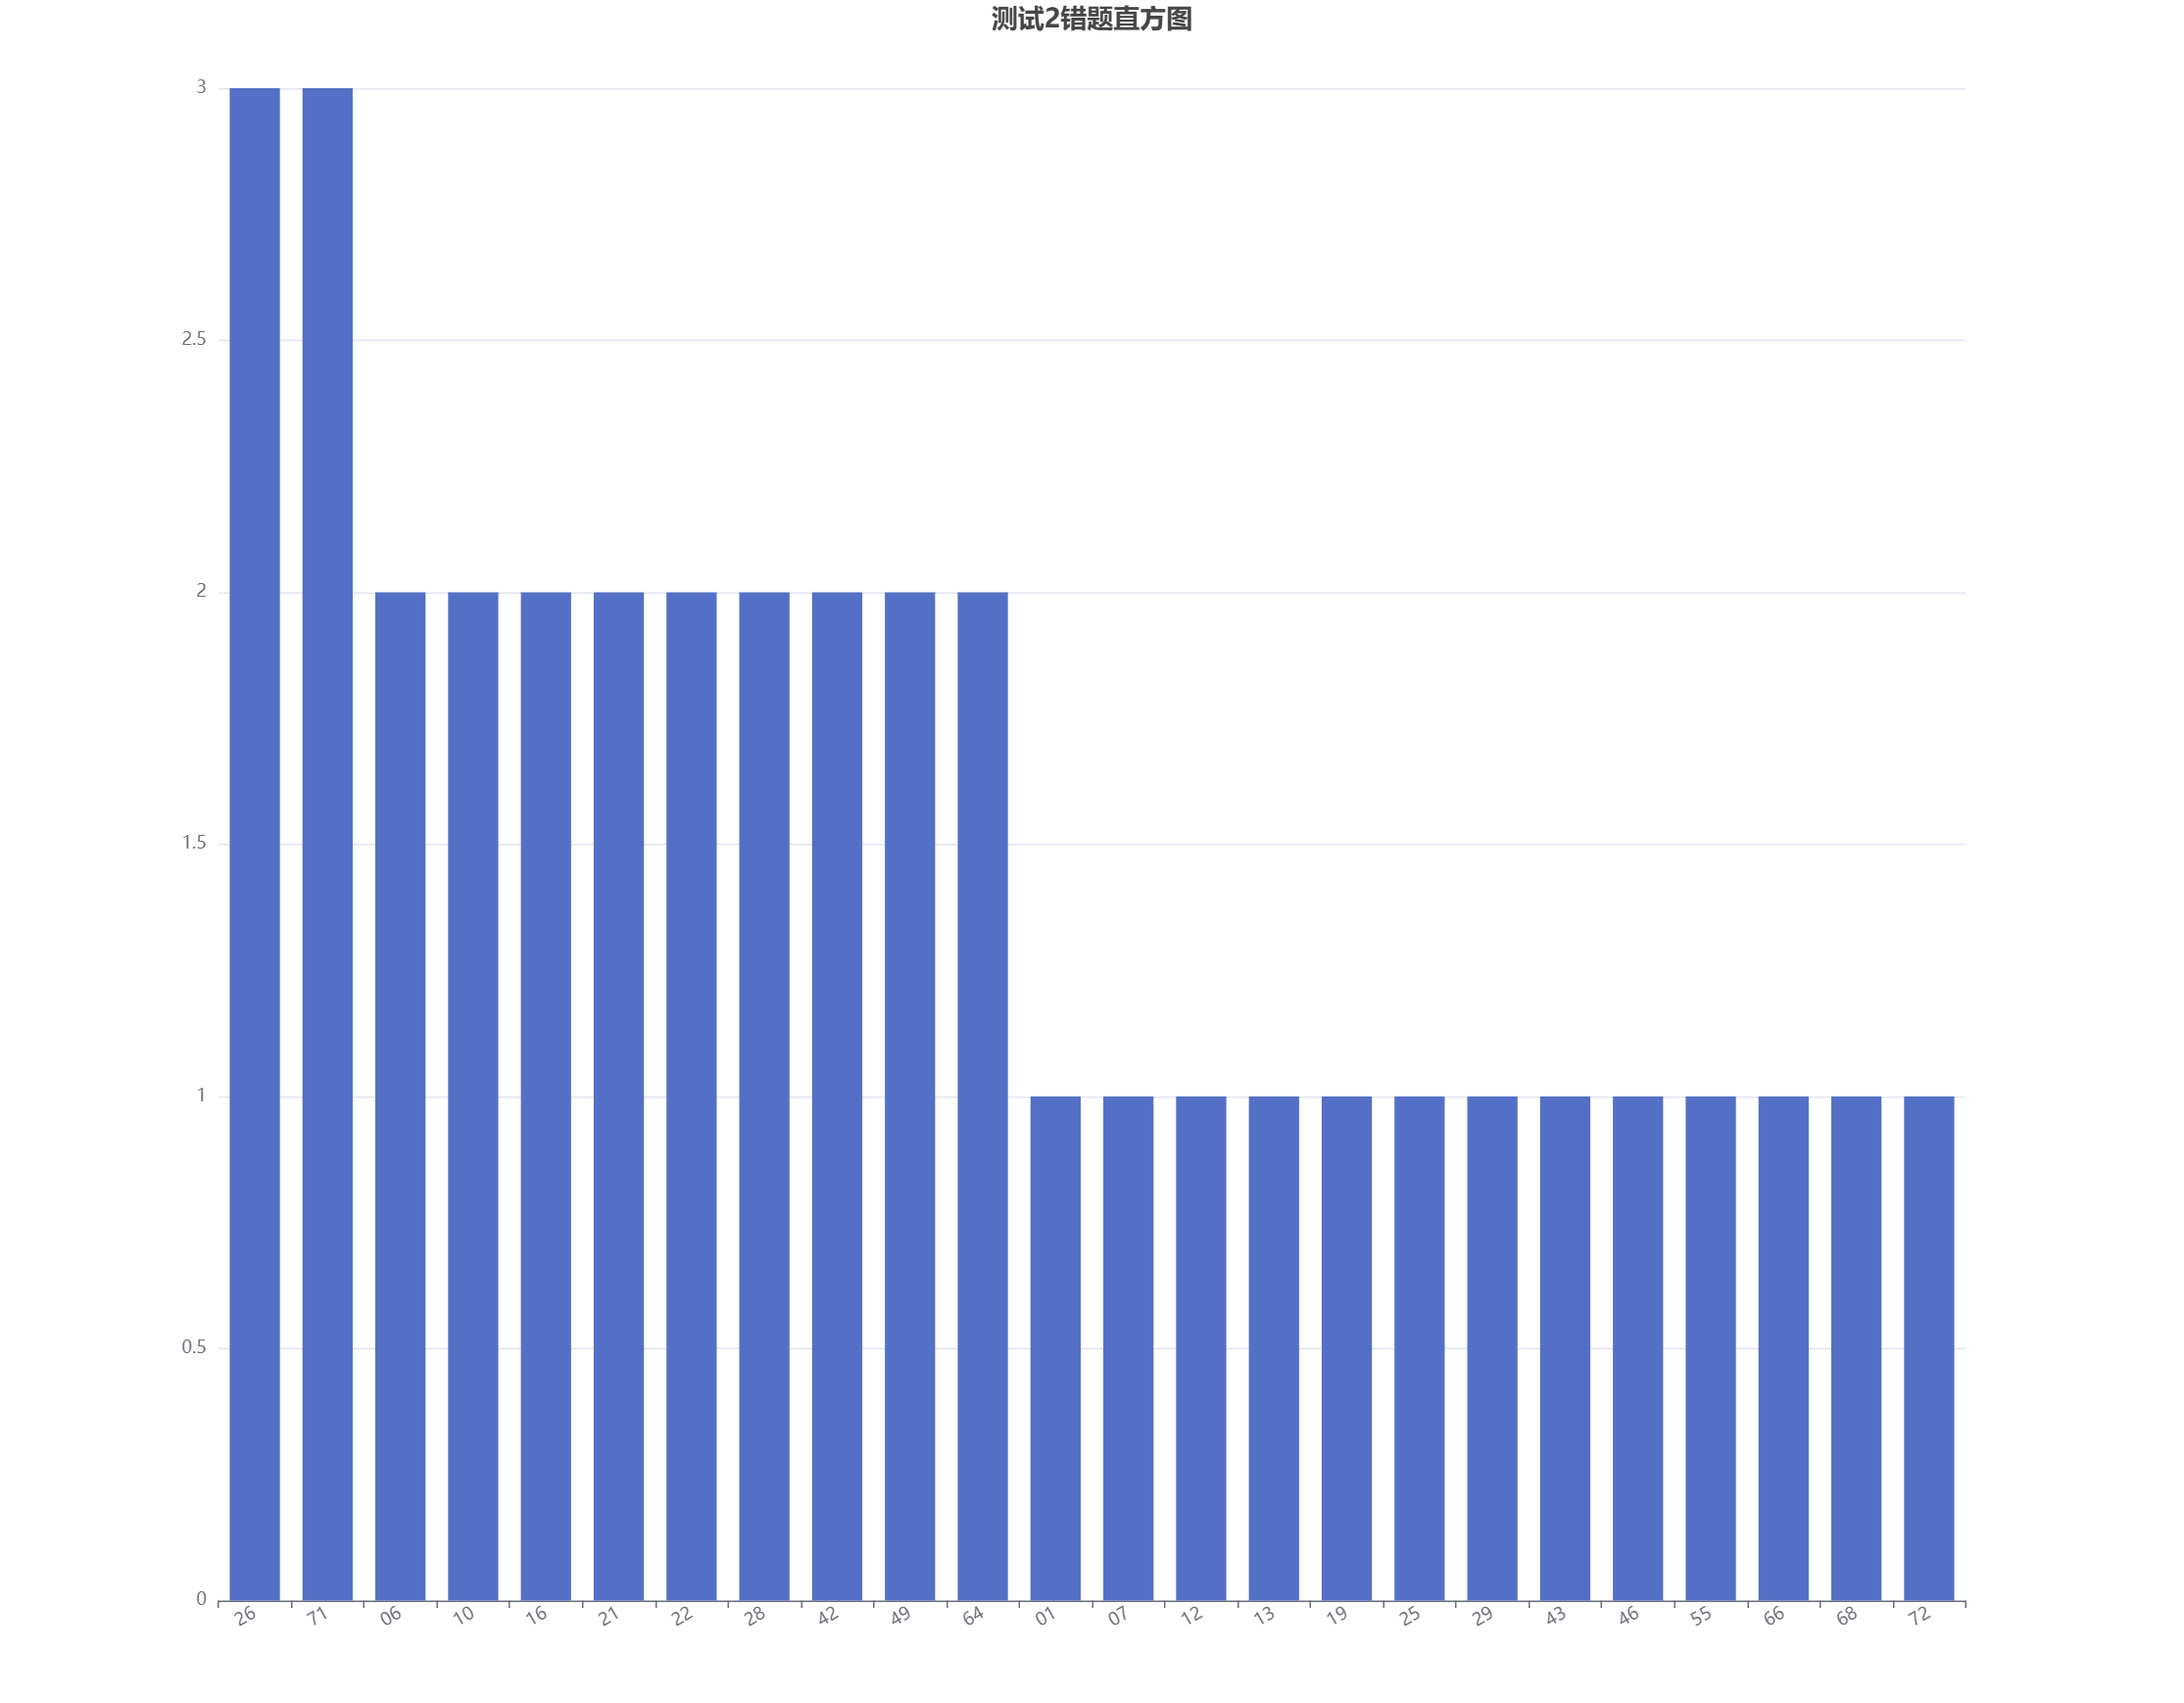
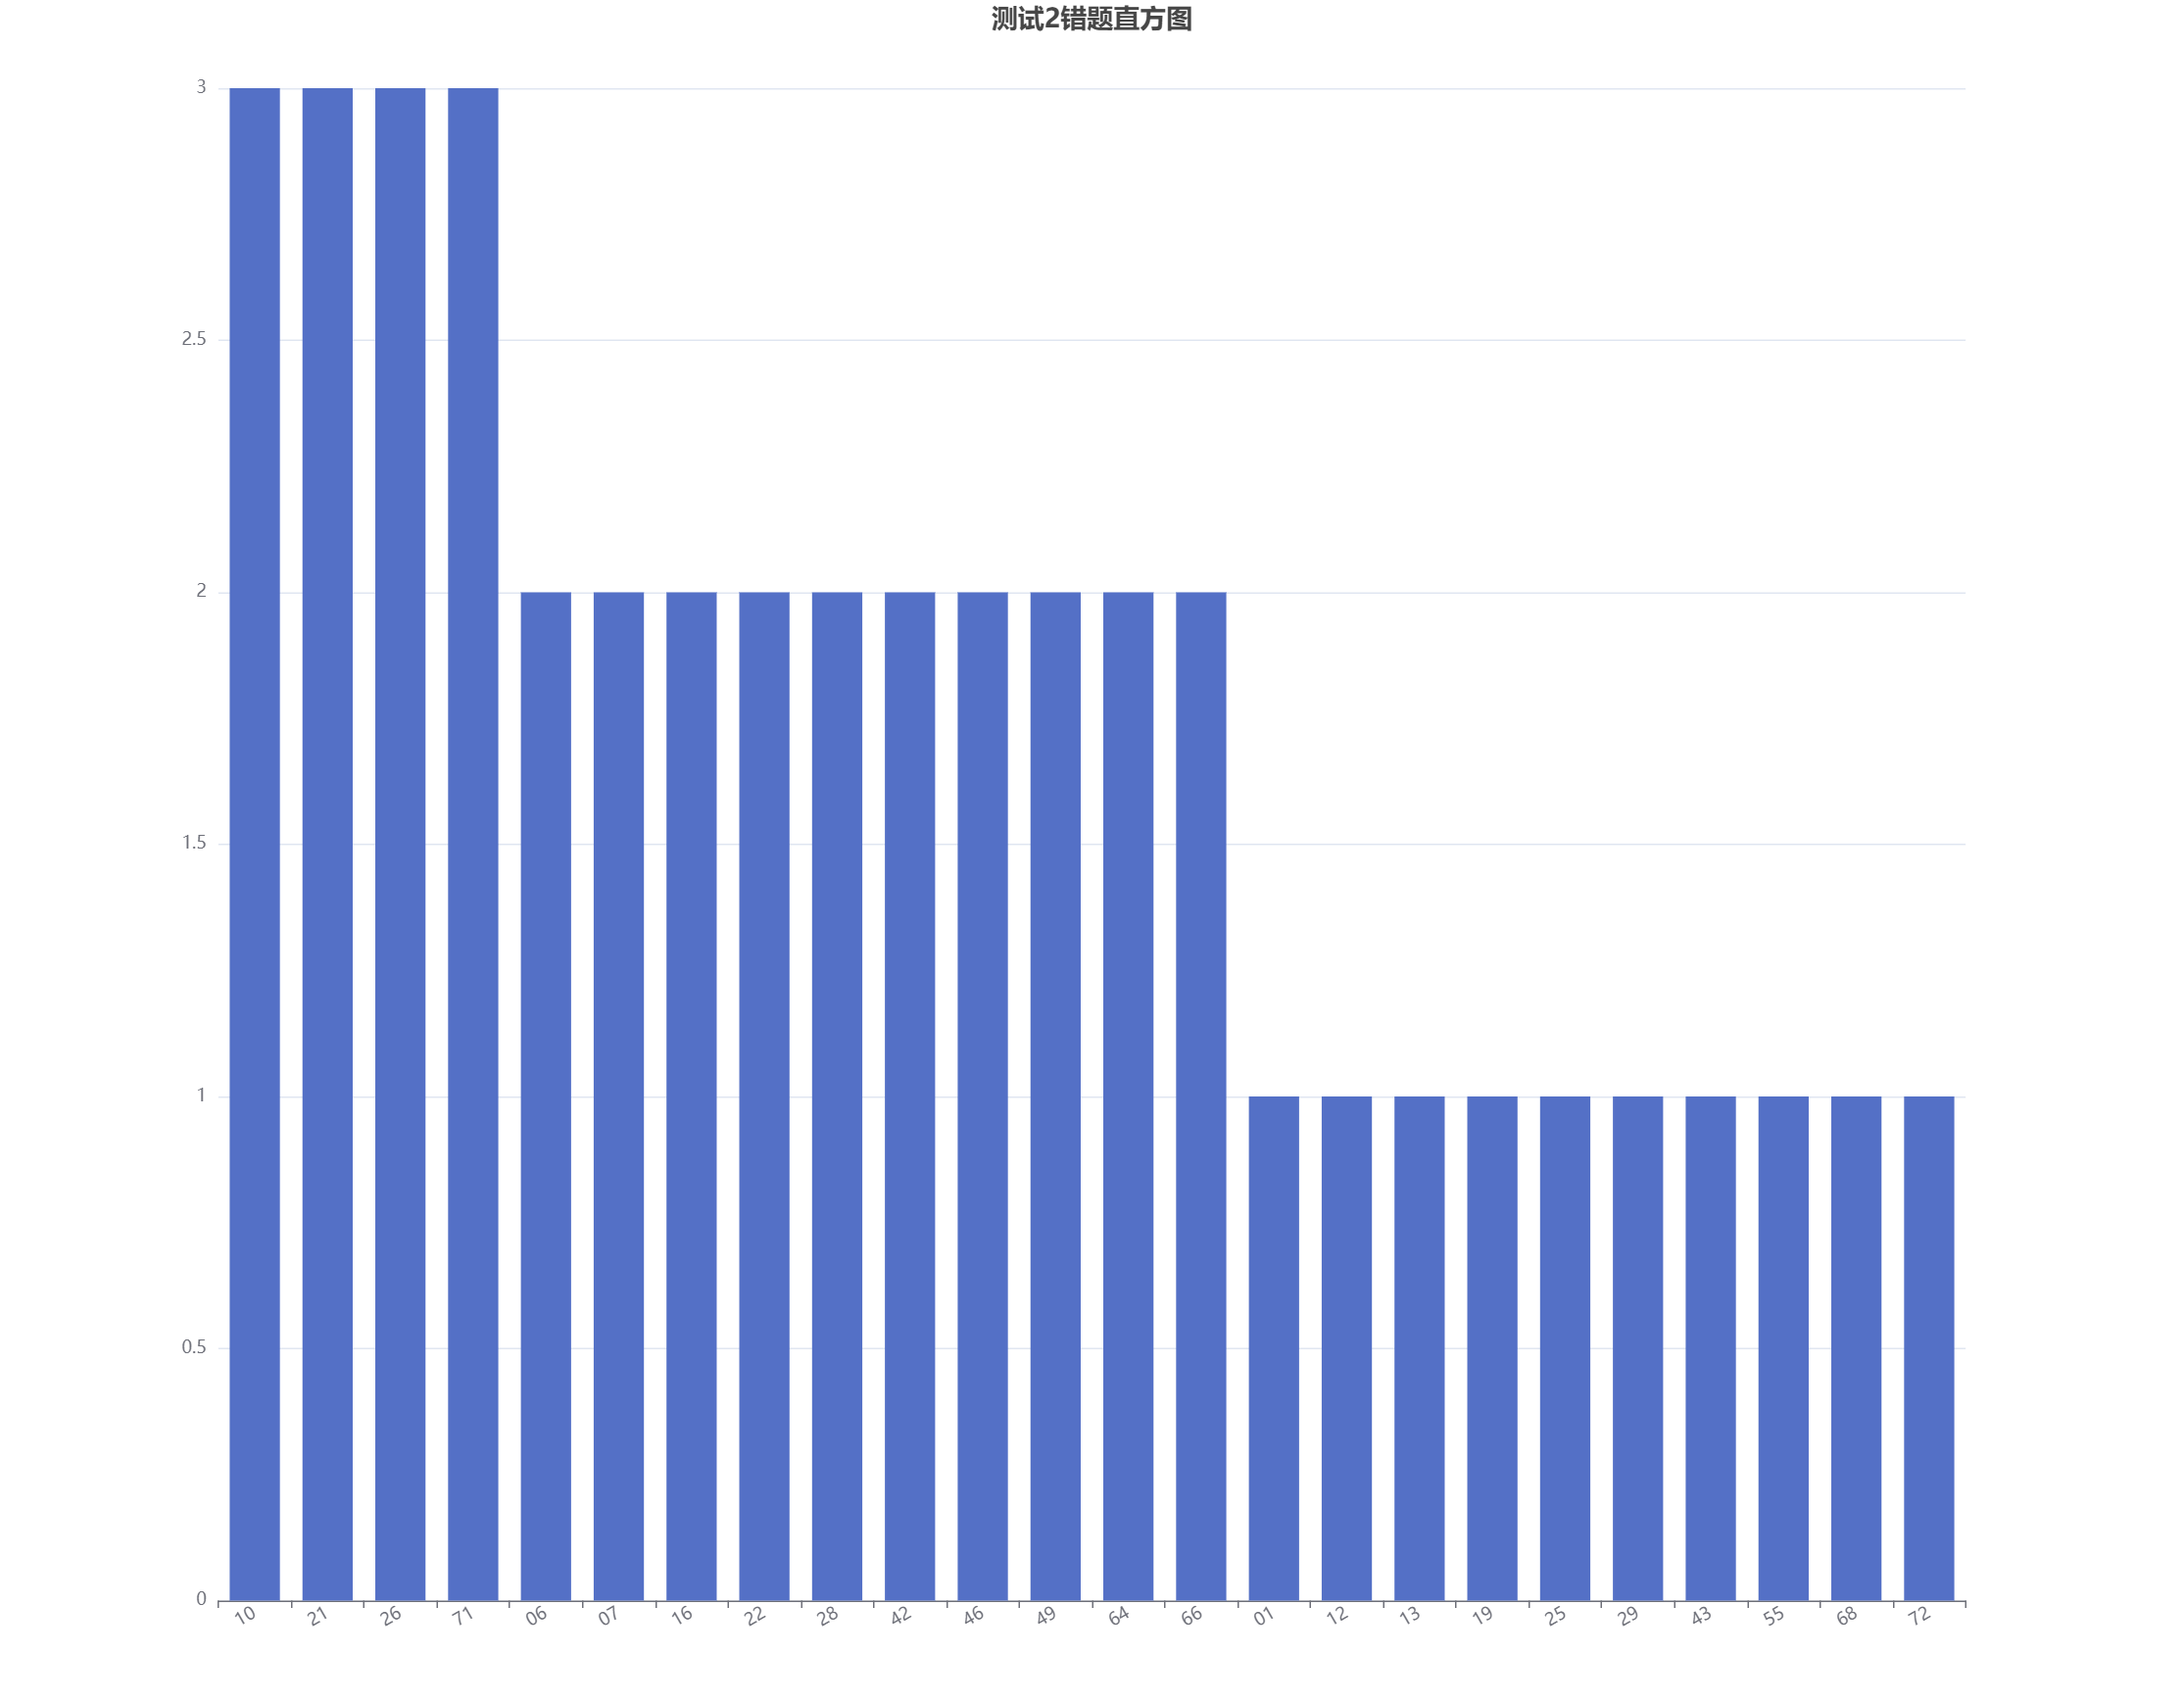
update test result of topic 2

Changed region(s): [[0.4643, 0.3418, 0.5882, 0.6525], [0.1548, 0.0311, 0.2476, 0.3728]]

diff --git a/src/result.js b/src/result.js
@@ -75,13 +75,13 @@ option = {
       source: [
         ['01', 1],
         ['06', 2],
-        ['07', 1],
-        ['10', 2],
+        ['07', 2],
+        ['10', 3],
         ['12', 1],
         ['13', 1],
         ['16', 2],
         ['19', 1],
-        ['21', 2],
+        ['21', 3],
         ['22', 2],
         ['25', 1],
         ['26', 3],
@@ -89,11 +89,11 @@ option = {
         ['29', 1],
         ['42', 2],
         ['43', 1],
-        ['46', 1],
+        ['46', 2],
         ['49', 2],
         ['55', 1],
         ['64', 2],
-        ['66', 1],
+        ['66', 2],
         ['68', 1],
         ['71', 3],
         ['72', 1],

diff --git a/src/rate.js b/src/rate.js
@@ -88,7 +88,7 @@ option = {
   },
   xAxis: {
     type: 'category',
-    data: ['第一回', '第二回', '第三回'],
+    data: ['第一回', '第二回', '第三回', '第四回'],
   },
   yAxis: {
     type: 'value',
@@ -99,7 +99,7 @@ option = {
   },
   series: [
     {
-      data: [69.7, 90.8, 94.7],
+      data: [69.7, 90.8, 94.7, 93.4],
       type: 'line',
       markLine: {
         symbol: ['none', 'none'],
